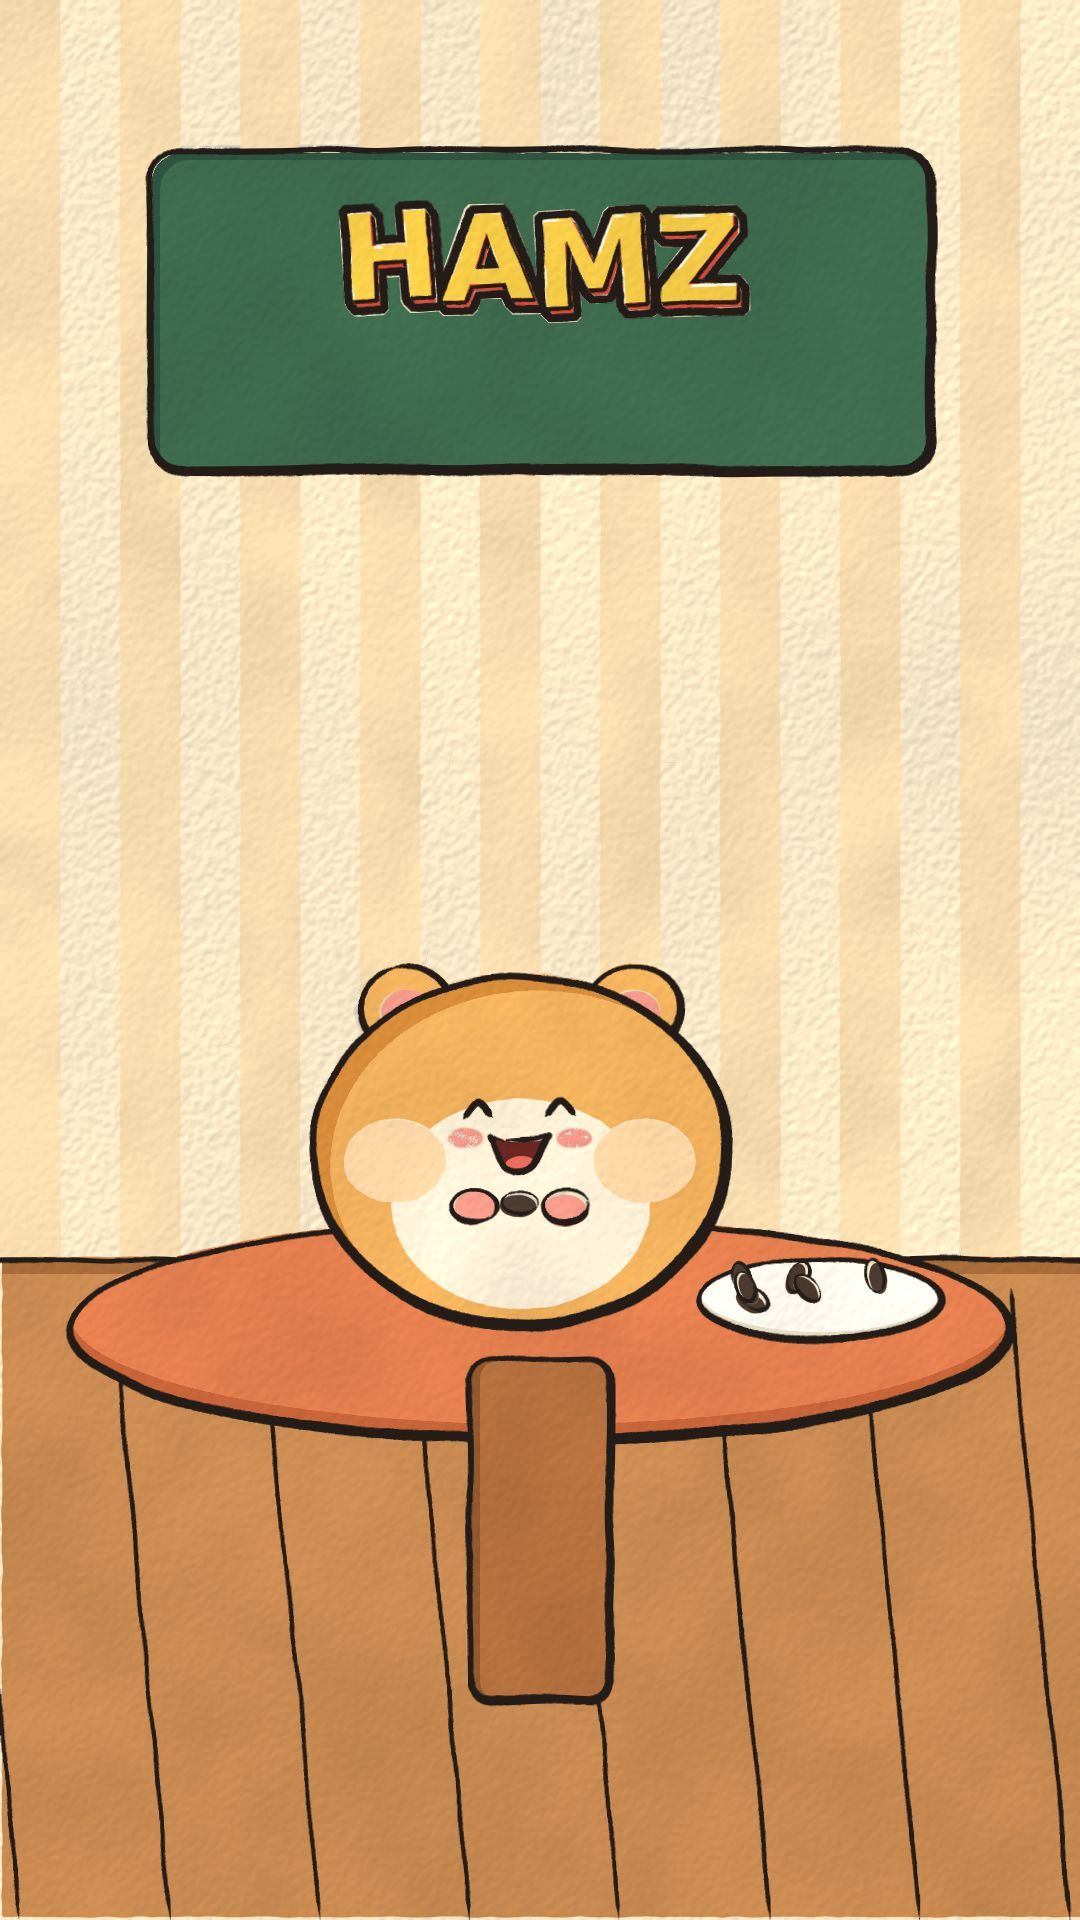
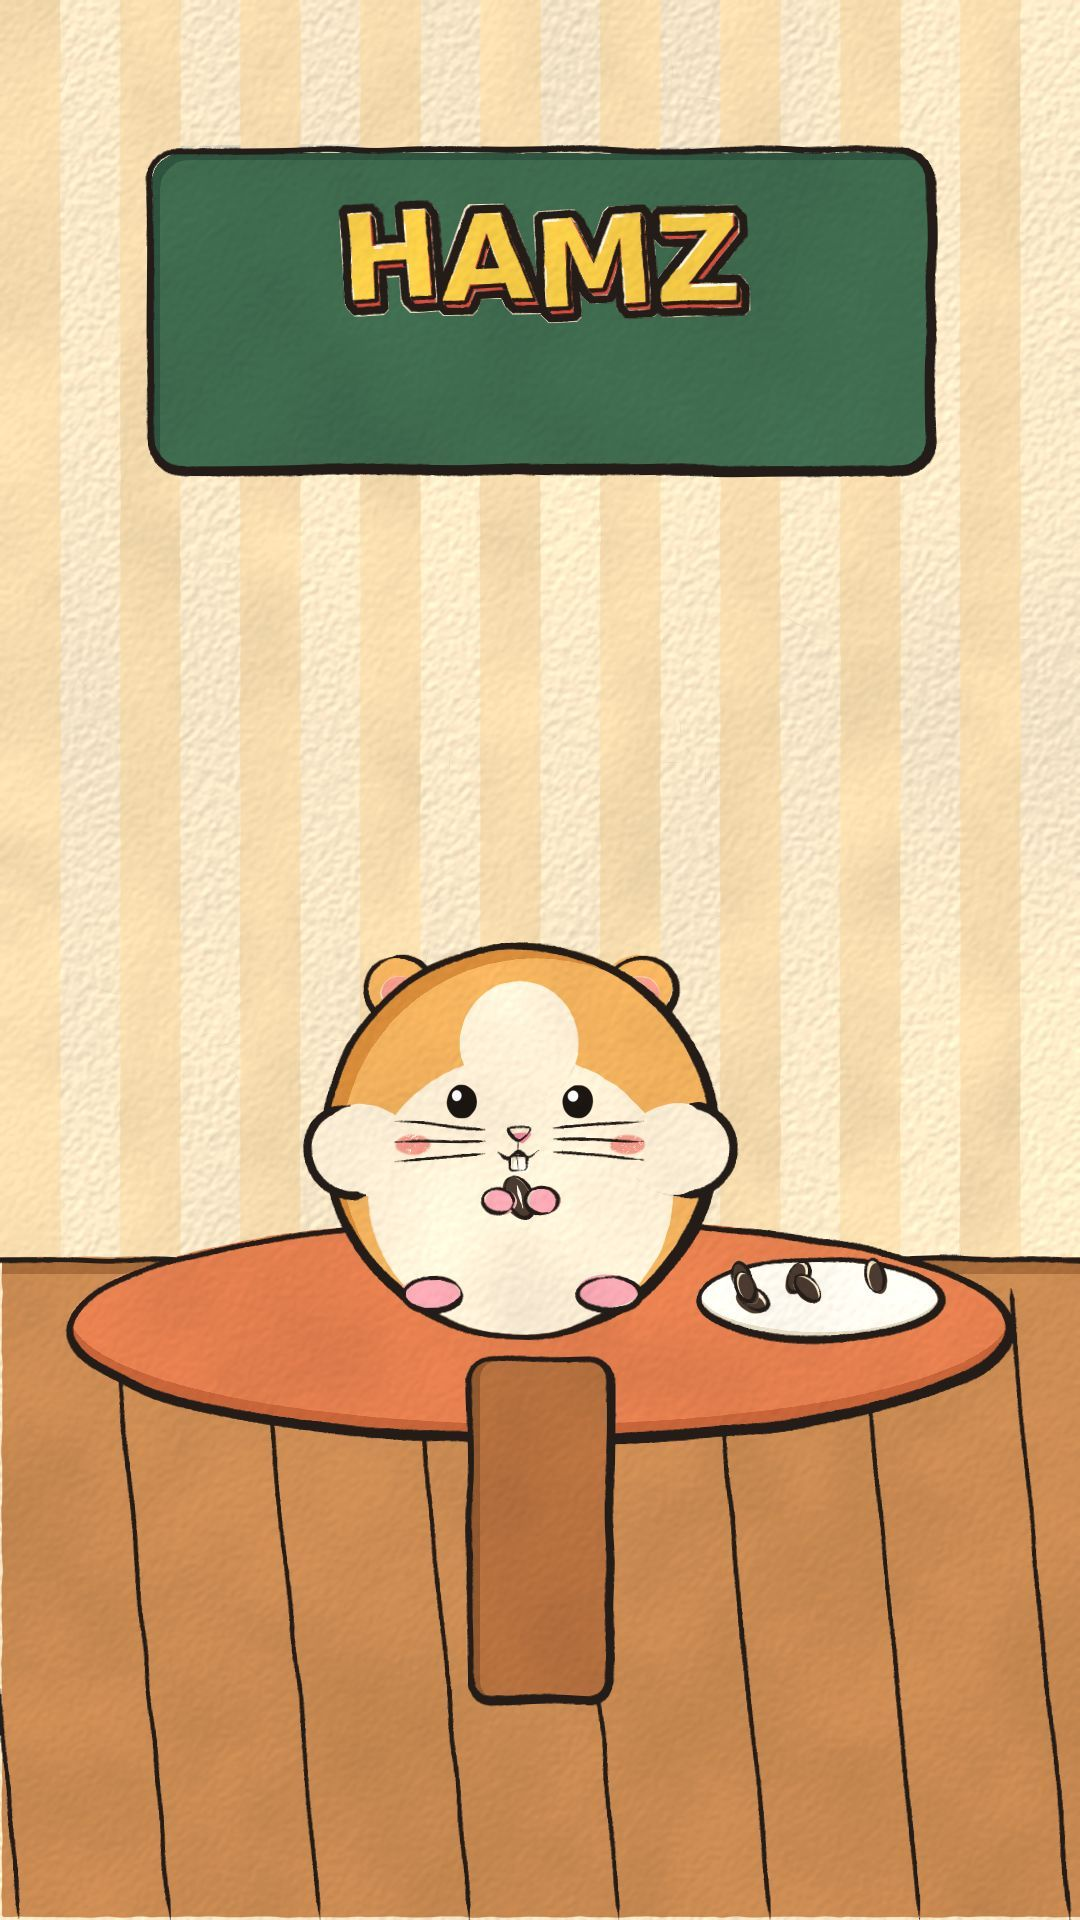
ig: 햄즈 살찌우기 햄스터를 햄스터답게(볼주머니·앞니·수염·구슬 눈)
Claude-Session: https://claude.ai/code/session_01RCovqCTjag3WJkZFny7UQu

Changed region(s): [[0.275, 0.4688, 0.7028, 0.7188]]

diff --git a/tools/ig/reel_clay/scene_hamz.py b/tools/ig/reel_clay/scene_hamz.py
@@ -10,7 +10,7 @@ W, H = 1080, 1920
 R = Cartoon.rrect_pts
 E = Cartoon.ellipse_pts
 FUR, FUR_D, BELLY, EAR = '#f3b25e', '#d98d3a', '#fff1d8', '#f59a8a'
-STATES = [('h1', 1.0, 'smile', 9), ('h2', 1.22, 'happy', 6), ('h3', 1.48, 'wow', 3), ('h4', 1.8, 'happy', 0), ('h5', 1.8, 'happy', 0)]
+STATES = [('h1', 1.0, '', 9), ('h2', 1.2, '', 6), ('h3', 1.42, '', 3), ('h4', 1.7, '', 0), ('h5', 1.7, '', 0)]
 
 
 def scene(name, k, mood, seeds, seed):
@@ -32,27 +32,52 @@ def scene(name, k, mood, seeds, seed):
     for i in range(seeds):
         x = 820 + rng.uniform(-80, 80); y = 1290 + rng.uniform(-18, 10)
         c.shape(E(x, y, 16, 9, rot=rng.uniform(0, 180)), '#4a3a30', width=3)
-    # 햄스터(k 배로 통통해진다, 바닥에 붙어 있도록 아래 기준)
+    # 햄스터: 골든햄스터처럼 등은 주황, 얼굴 아래·배는 흰색. 구슬 같은 까만 눈, 분홍 코, 앞니, 수염,
+    # 양쪽으로 부푼 볼주머니(단계마다 더 빵빵), 씨앗을 쥔 분홍 앞발. k 배로 통통해진다(바닥 기준)
     cx, base = 520, 1300
-    bw, bh = 170 * k, 150 * (1 + (k - 1) * .75)
-    cy = base - bh * .85
-    for sx in (-1, 1):                                                                          # 귀
-        c.shape(E(cx + sx * bw * .55, cy - bh * .82, 46, 42), FUR, width=7)
-        c.fill(E(cx + sx * bw * .55, cy - bh * .8, 26, 22), EAR, slop=1)
-    c.shape(E(cx, cy, bw, bh), FUR, shade=(FUR_D, -18, -14), width=9)
-    c.fill(E(cx, cy + bh * .3, bw * .62, bh * .6), BELLY, slop=1.5)
-    for sx in (-1, 1):                                                                          # 볼주머니
-        c.fill(E(cx + sx * bw * .6, cy + bh * .05, 44 * k ** .7, 36 * k ** .7), '#ffd9a8', slop=1)
-    c.face(cx, cy - bh * .18, 120, mood)
-    for sx in (-1, 1):                                                                          # 앞발(씨앗을 쥔다)
-        c.shape(E(cx + sx * 46, cy + bh * .32, 22, 16), '#f59a8a', width=5)
-    c.shape(E(cx, cy + bh * .3, 18, 11), '#4a3a30', width=3)
+    bw, bh = 165 * k ** .9, 175 * (1 + (k - 1) * .55)
+    cy = base - bh * .82
+    pouch = 40 + 70 * (k - 1)                                                                   # 볼주머니 크기
+    for sx in (-1, 1):                                                                          # 귀: 작고 둥글게, 머리 양옆 위
+        c.shape(E(cx + sx * bw * .62, cy - bh * .78, 34, 32), FUR, width=6)
+        c.fill(E(cx + sx * bw * .62, cy - bh * .76, 19, 17), EAR, slop=.8)
+    body = E(cx, cy, bw, bh)
+    c.shape(body, FUR, shade=(FUR_D, -16, -12), width=9)
+    c.fill(c.mask(E(cx, cy + bh * .28, bw * .78, bh * .72)) * c.mask(body), BELLY, slop=1)        # 흰 배·턱
+    for sx in (-1, 1):                                                                          # 볼주머니: 몸 옆으로 불룩 튀어나온 흰 볼(바깥 테두리만 그린다)
+        px, pr = cx + sx * (bw * .78 + pouch * .15), pouch
+        c.fill(E(px, cy + bh * .05, pr, pr * .85), BELLY, slop=.6)
+        a0, a1 = (-80, 95) if sx > 0 else (85, 260)
+        c.line(E(px, cy + bh * .05, pr, pr * .85, a0=a0, a1=a1), 8)
+        c.blush(cx + sx * bw * .55, cy + bh * .02, 18, 10)
+    c.fill(c.mask(E(cx, cy - bh * .5, bw * .3, bh * .32)) * c.mask(body), BELLY, slop=.6)         # 이마의 흰 줄
+    ey = cy - bh * .2
+    for sx in (-1, 1):                                                                          # 구슬 눈
+        e = E(cx + sx * bw * .3, ey, 15, 17)
+        c.fill(e, '#1c1612', slop=.3)
+        c.fill(E(cx + sx * bw * .3 - 5, ey - 6, 5, 6), '#ffffff', slop=0, knock=False, kind='shade')
+    ny = ey + 34
+    c.shape([(cx - 11, ny - 6), (cx + 11, ny - 6), (cx, ny + 6)], '#f2869a', width=3)           # 분홍 코
+    c.line([(cx, ny + 6), (cx, ny + 16)], 3.5)
+    c.line([(cx - 20, ny + 16), (cx - 10, ny + 22), (cx, ny + 16), (cx + 10, ny + 22), (cx + 20, ny + 16)], 3.5)   # ω 입
+    c.shape(R(cx - 8, ny + 20, cx + 8, ny + 34, 3), '#fffbf1', width=3)                         # 앞니
+    c.line([(cx, ny + 21), (cx, ny + 33)], 2, rough=False)
+    for sx in (-1, 1):                                                                          # 수염
+        for dy in (-6, 6, 18):
+            c.line([(cx + sx * 34, ny + dy), (cx + sx * (bw * .5 + pouch * .5), ny + dy + dy * .6 - 4)], 2.4, rough=False)
+    py = ny + 62                                                                                # 앞발로 씨앗 쥐기
+    c.shape(E(cx, py, 13, 22, rot=20), '#4a3a30', width=3)
+    c.glint([(cx - 3, py - 12), (cx + 3, py + 10)], 3)
+    for sx in (-1, 1):
+        c.shape(E(cx + sx * 22, py + 4, 16, 13), '#f6a6b2', width=4)
+    for sx in (-1, 1):                                                                          # 뒷발
+        c.shape(E(cx + sx * bw * .45, base - 6, 30, 16), '#f6a6b2', width=5)
     if name == 'h5':                                                                            # 승리
         c.burst(540, 760, 250, 130, colour='#f8cd48', spikes=16, shade='#e0a52a')
         c.letter('WIN!', 540, 800, 120, fill='#fffbf1', depth=(5, 7), depth_colour='#e04a3a', anchor='m')
         for (x, y) in ((200, 600), (880, 640), (260, 980), (840, 1000)): c.sparkle(x, y, 34)
     if k > 1.4 and name != 'h5':
-        c.pop_lines(cx, cy, bw + 20, bw + 80, [200, 230, 310, 340], width=6)
+        c.pop_lines(cx, cy, bw + pouch, bw + pouch + 60, [200, 230, 310, 340], width=6)
     return c
 
 
